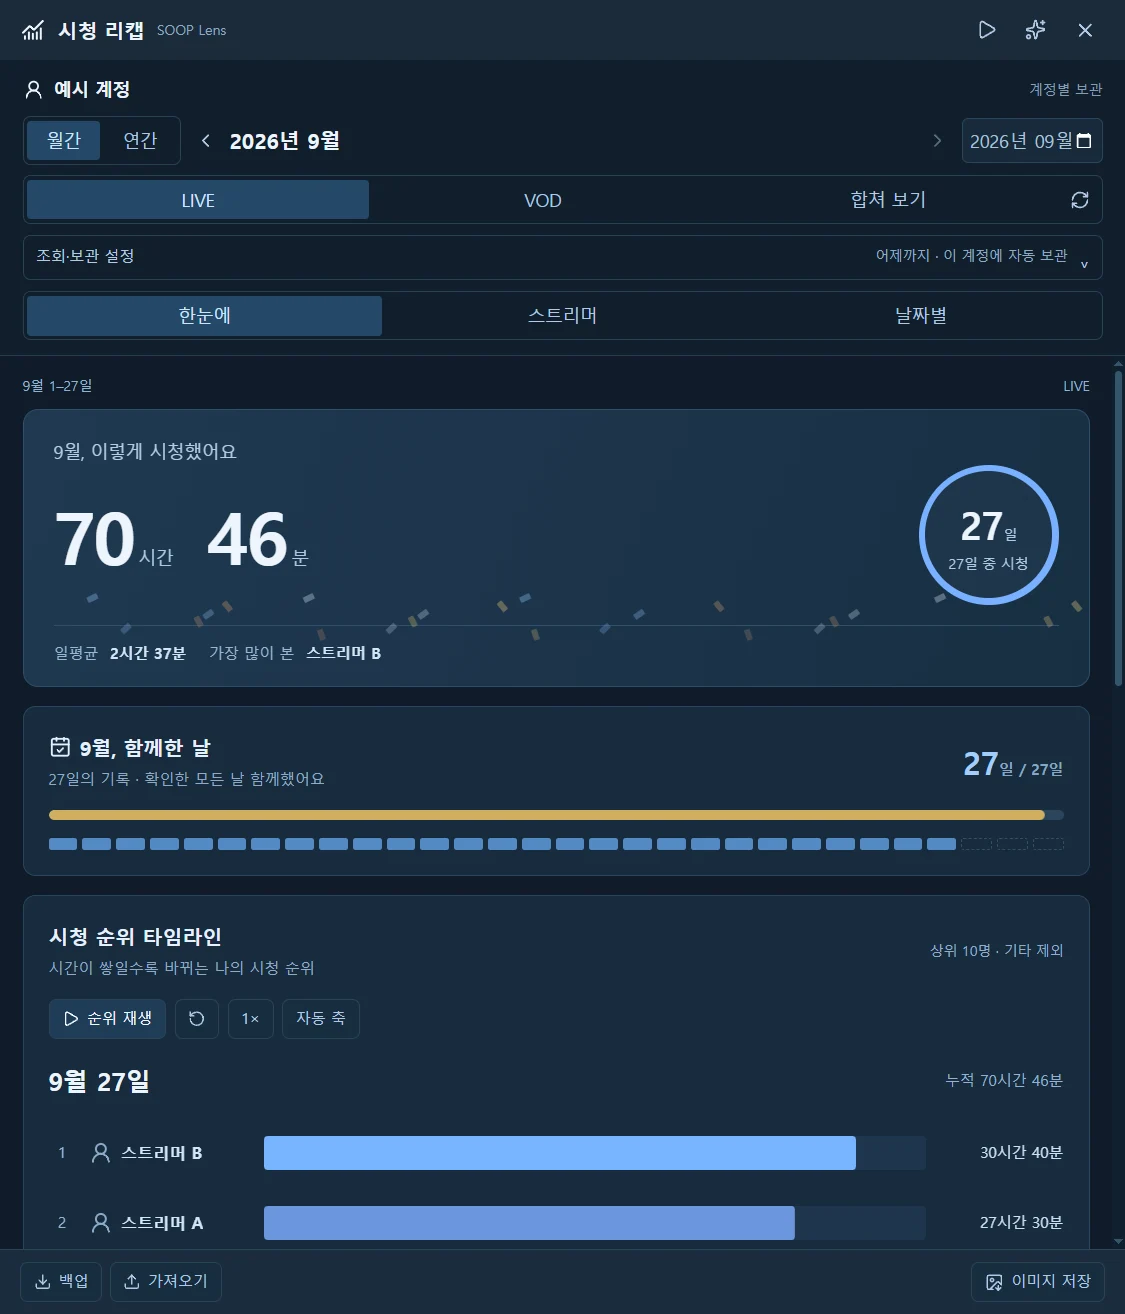
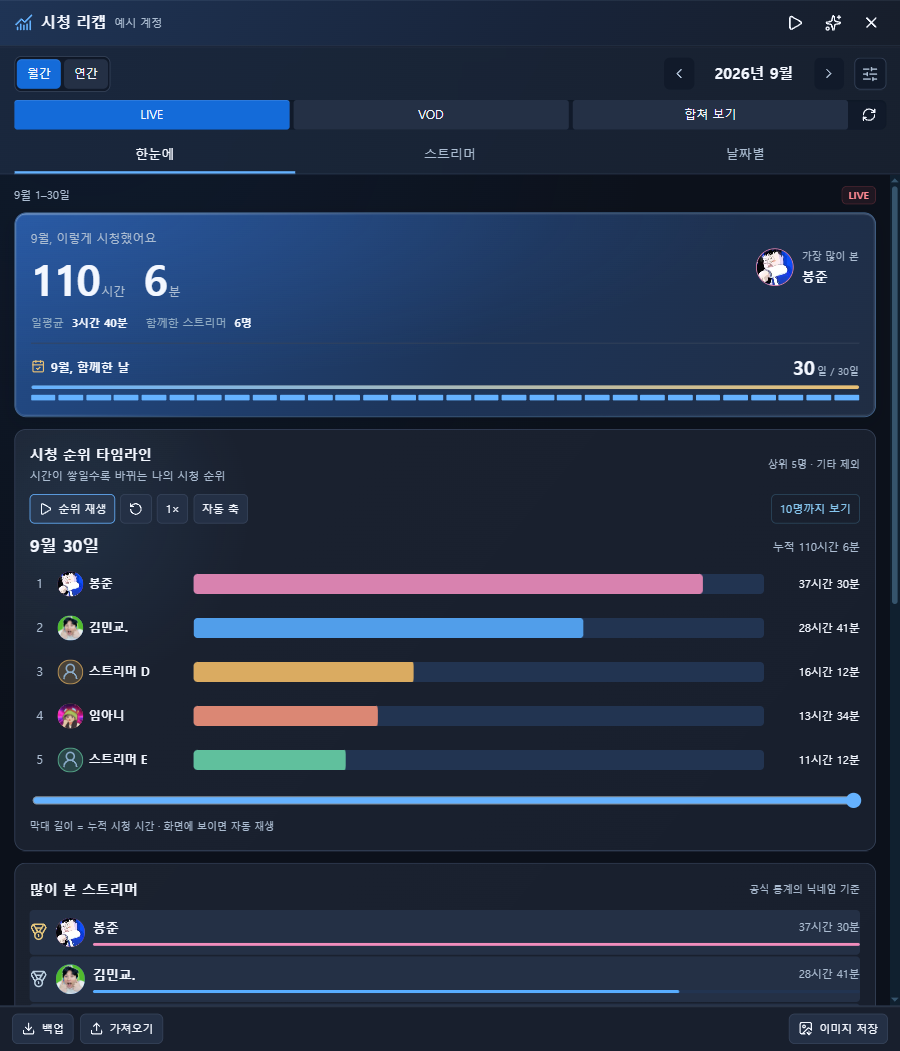
Refresh download-page recap image from SOOP Lens 2.1.5

diff --git a/index.html b/index.html
@@ -39,7 +39,7 @@
 <div class="section-heading" data-reveal><p class="section-label">SOOP Lens의 세 가지 시청 도구</p><h2 id="signature-title">시청에 집중하고,<br>큰 순간과 나의 취향을 기억하세요.</h2></div>
 <article id="viewing-recap" class="recap-feature glass" data-reveal>
 <div class="recap-feature-copy"><span class="feature-index">01 / 시청 리캡</span><h3>한 달의 시청이,<br>움직이는 이야기로.</h3><p>공식 통계로 월간·연간 시청을 돌아보세요. 시간이 쌓이며 바뀌는 순위, 더 많이 본 스트리머와 덜 보게 된 스트리머가 한눈에 보입니다.</p><ul><li>화면에 보이면 재생되는 시청 순위 타임라인</li><li>스트리머별 컬러 버블과 순위 · 함께한 날 · PC와 모바일 비중</li><li>계정별 보관 · 백업 · PNG·SVG 이미지 저장</li></ul><p class="feature-path">상단 리캡 메뉴 · SOOP / Spotify · 항상 별도 창으로</p></div>
-<figure class="recap-feature-visual"><img src="assets/recap-overview.webp" alt="월간 시청 시간, 함께한 날과 움직이는 시청 순위를 보여주는 SOOP Lens 리캡" width="900" height="1050" loading="lazy"><figcaption>실제 앱 리캡 화면 · 예시 데이터</figcaption></figure>
+<figure class="recap-feature-visual"><img src="assets/recap-overview.webp?v=2.1.5" alt="월간 시청 시간, 함께한 날과 움직이는 시청 순위를 보여주는 SOOP Lens 리캡" width="900" height="1051" loading="lazy"><figcaption>실제 2.1.5 앱 화면 · SOOP 테마 · 예시 데이터</figcaption></figure>
 </article>
 <div class="signature-pair">
 <article id="ad-blocking" class="signature-tool" data-reveal><span class="feature-index">02 / 광고 차단</span><h3>방송에 들어가는 순간부터<br>더 깔끔한 시청.</h3><p>내장 차단 기능으로 입장 광고 요청과 방송 페이지 배너를 줄입니다. 별도 확장 프로그램 설치 없이 설정에서 켜고 끌 수 있습니다.</p><p class="feature-path">설정 → 광고 차단</p><p class="feature-limit">확인된 광고 요청·배너에 적용됩니다. 영상에 포함된 광고와 모든 광고 제거를 보장하지는 않습니다.</p></article>
